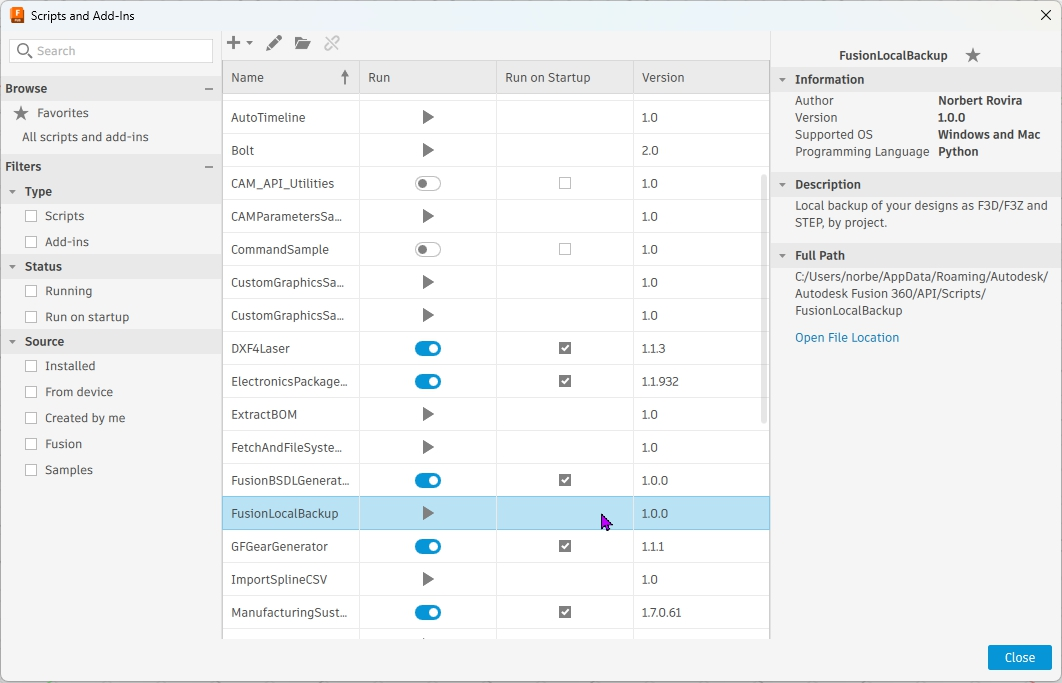
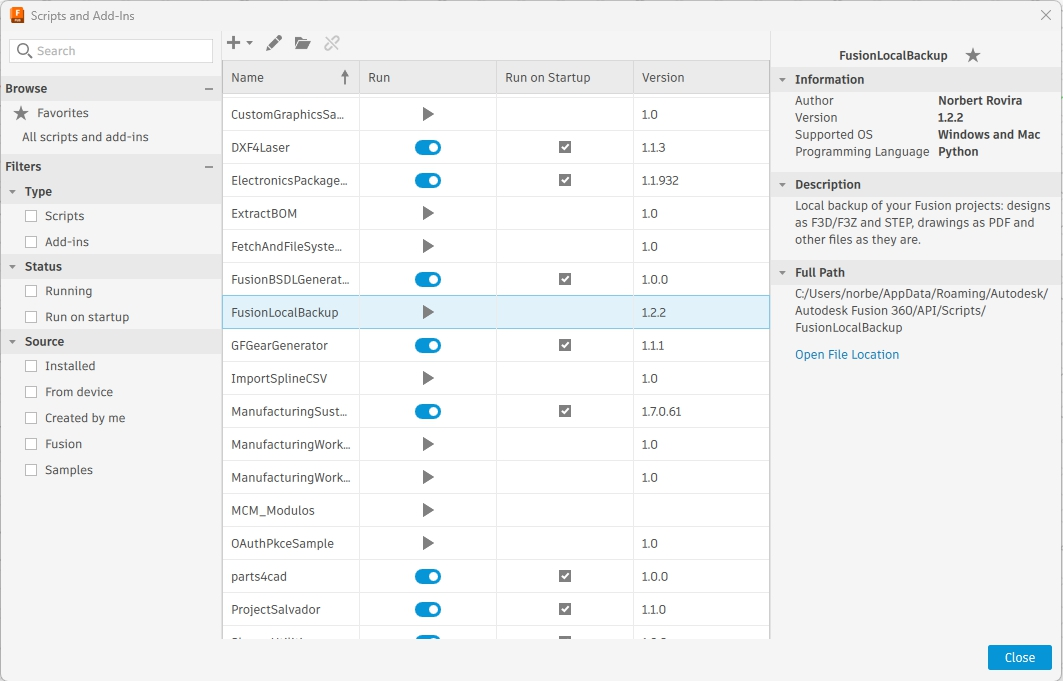
Capturas al dia en las dos guias (1.2.2)
Claude-Session: https://claude.ai/code/session_01CLQ17UXGdRB5BnuvPhnvtq

diff --git a/docs/guia.md b/docs/guia.md
@@ -83,7 +83,7 @@ Puedes pulsar **Cancelar** en cualquier momento. El script termina el diseño qu
 
 Al acabar aparece un resumen:
 
-![Resumen final de una copia](img/resumen.png)
+![Resumen final de una copia](img/resumen.jpg)
 
 ## Qué encontrarás en la carpeta de destino
 
